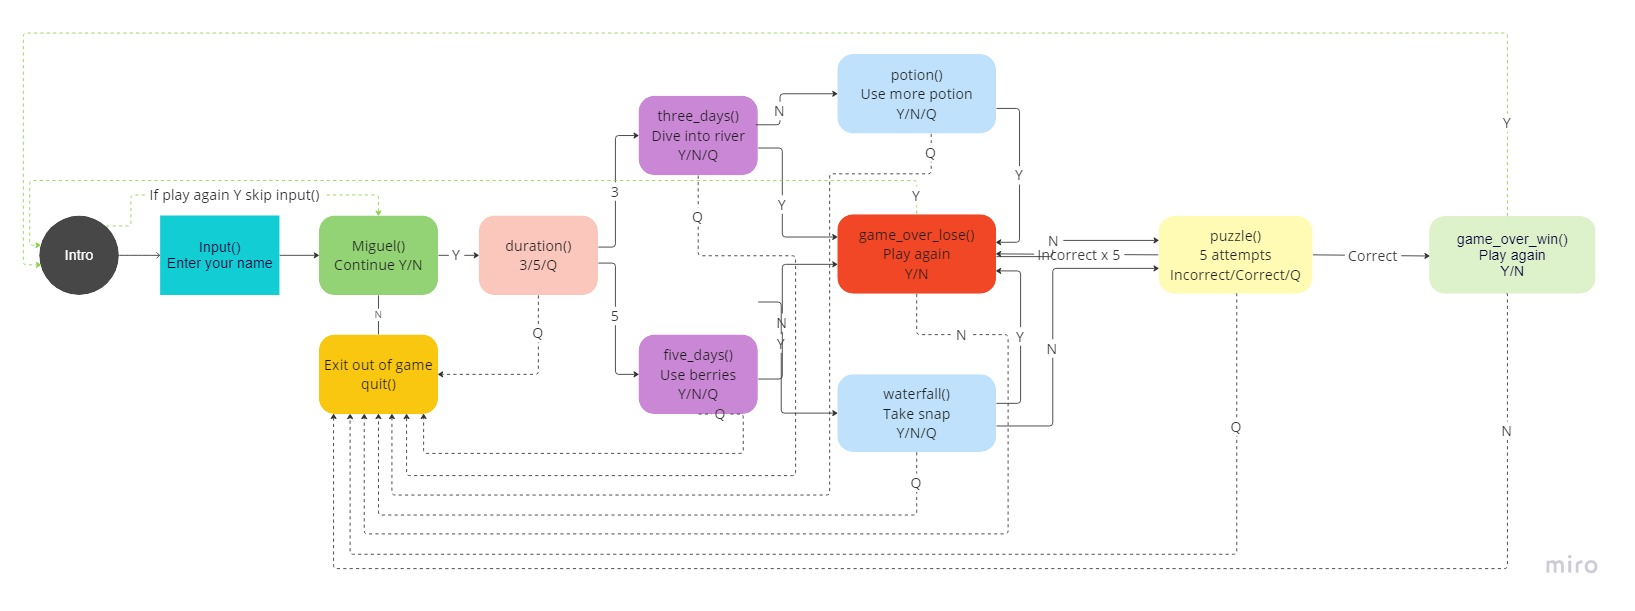
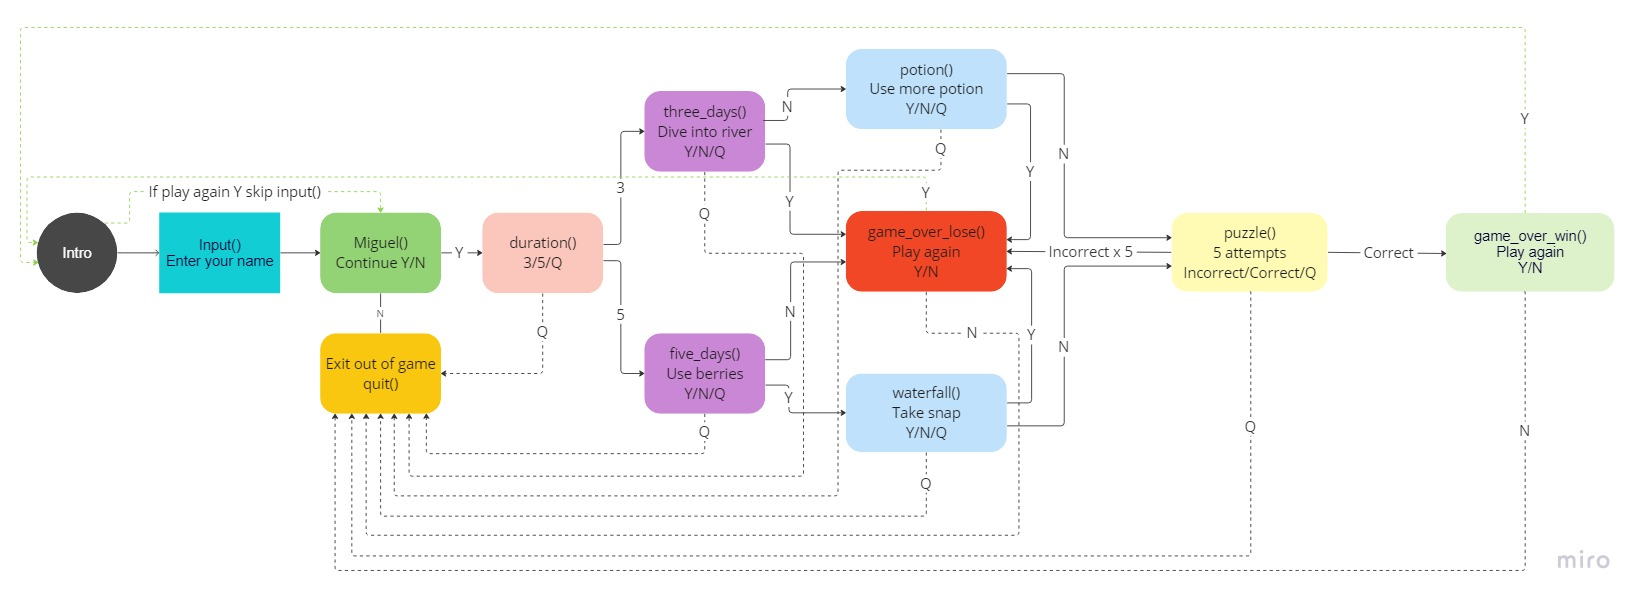
Update mind map image & README content

diff --git a/README.md b/README.md
@@ -17,7 +17,7 @@ An adventure based game created for a project submission to Code Institute for t
     - [Languages](#languages)
     - [Frameworks](#frameworks)
 - [Testing](#testing)
-    - [PEP8 Linter](#pep8-linter)
+    - [PEP8 Python Validator](#pep8-python-validator)
         - [Python](#python)
     - [Manual](#manual)
     - [Testing User Stories from User Experience (UX) Section](#testing-user-stories-from-user-experience-ux-section)
@@ -46,8 +46,7 @@ An adventure based game created for a project submission to Code Institute for t
 ### Design
 ### Mind Map
 This is the mind map.  
-![](/docs/mind_map/mind_map.jpg)  
-
+![](/docs/mind_map/mind_map.jpg)
 #### Wireframes
 
 
@@ -66,7 +65,7 @@ This is the mind map.
     - Used to deploy the appliaction.
 - [PEP8](https://pep8ci.herokuapp.com/) used to test the code for errors.
 ## Testing
-### PEP8 Linter  
+### PEP8 Python Validator
 #### Python
 - Result
     - All clear, no errors found  
@@ -90,7 +89,7 @@ This is the mind map.
 because the username varaible is not an empty string anymore once the game is played once. To address this I introduced a pass
 statement to the intro() method. This allows the program to pass on to the miguel() method of the game if the username variable
 is not an empty string.
-- After running the code through the PEP8 linter I rearranged the code to meet the 80 character limit requirements. This involved
+- After running the code through the PEP8 validator I rearranged the code to meet the 80 character limit requirements. This involved
 rearranging an f-string by splitting it over two lines and using a '+' at the end of the first line. However that caused '{username}'
 to be displayed when the game was run and not the input value for username. This was because '{username}' was now on the new
 rearranged second line and not the first line which contained the 'f'. I moved the 'f' from the first to the second line containing
